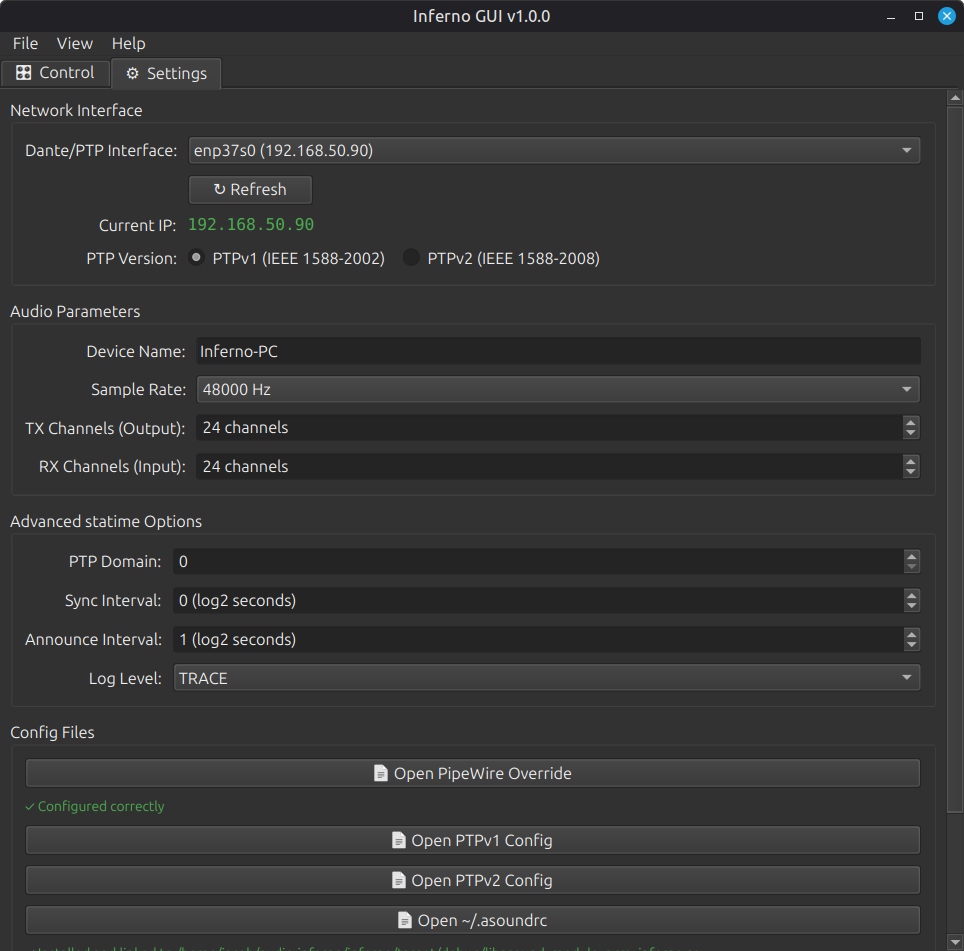
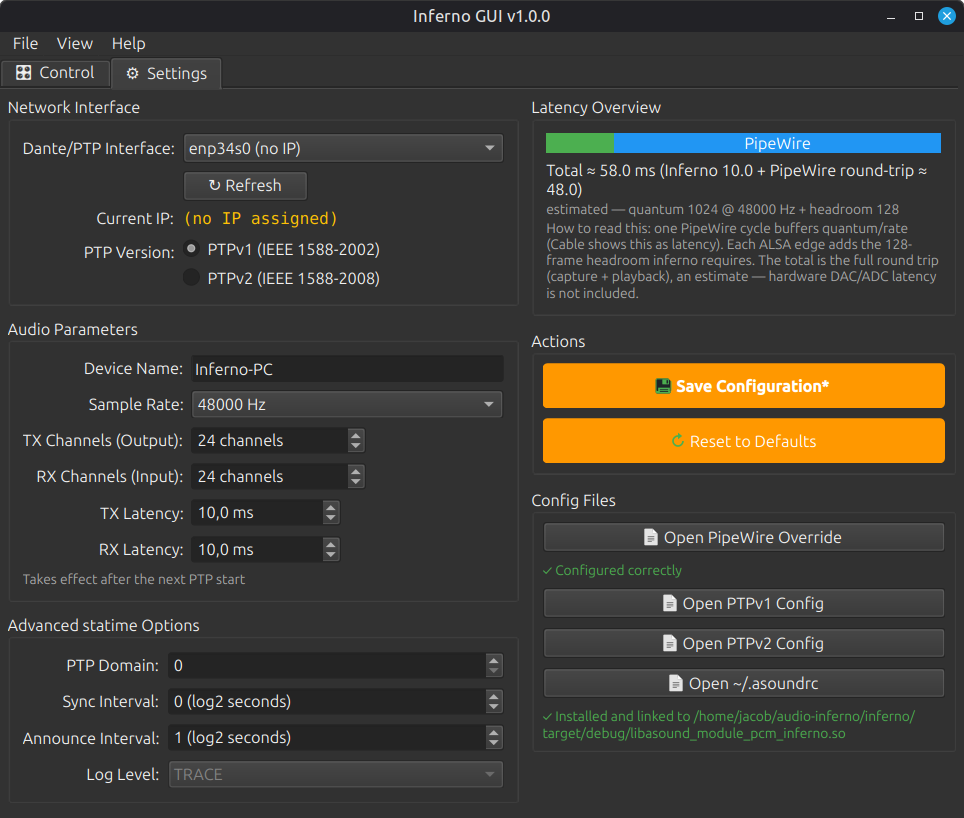
seetings-tab pic

diff --git a/README.md b/README.md
@@ -18,7 +18,7 @@ A Linux desktop application for easy installing and managing **Inferno** – a D
 
 ## Screenshots
 
-![installer](assets/installer.png.png)
+![installer](assets/installer.png)
 ![main](assets/inferno-gui-main.png)
 ![settings](assets/inferno-gui-settings-tab.png)
 
